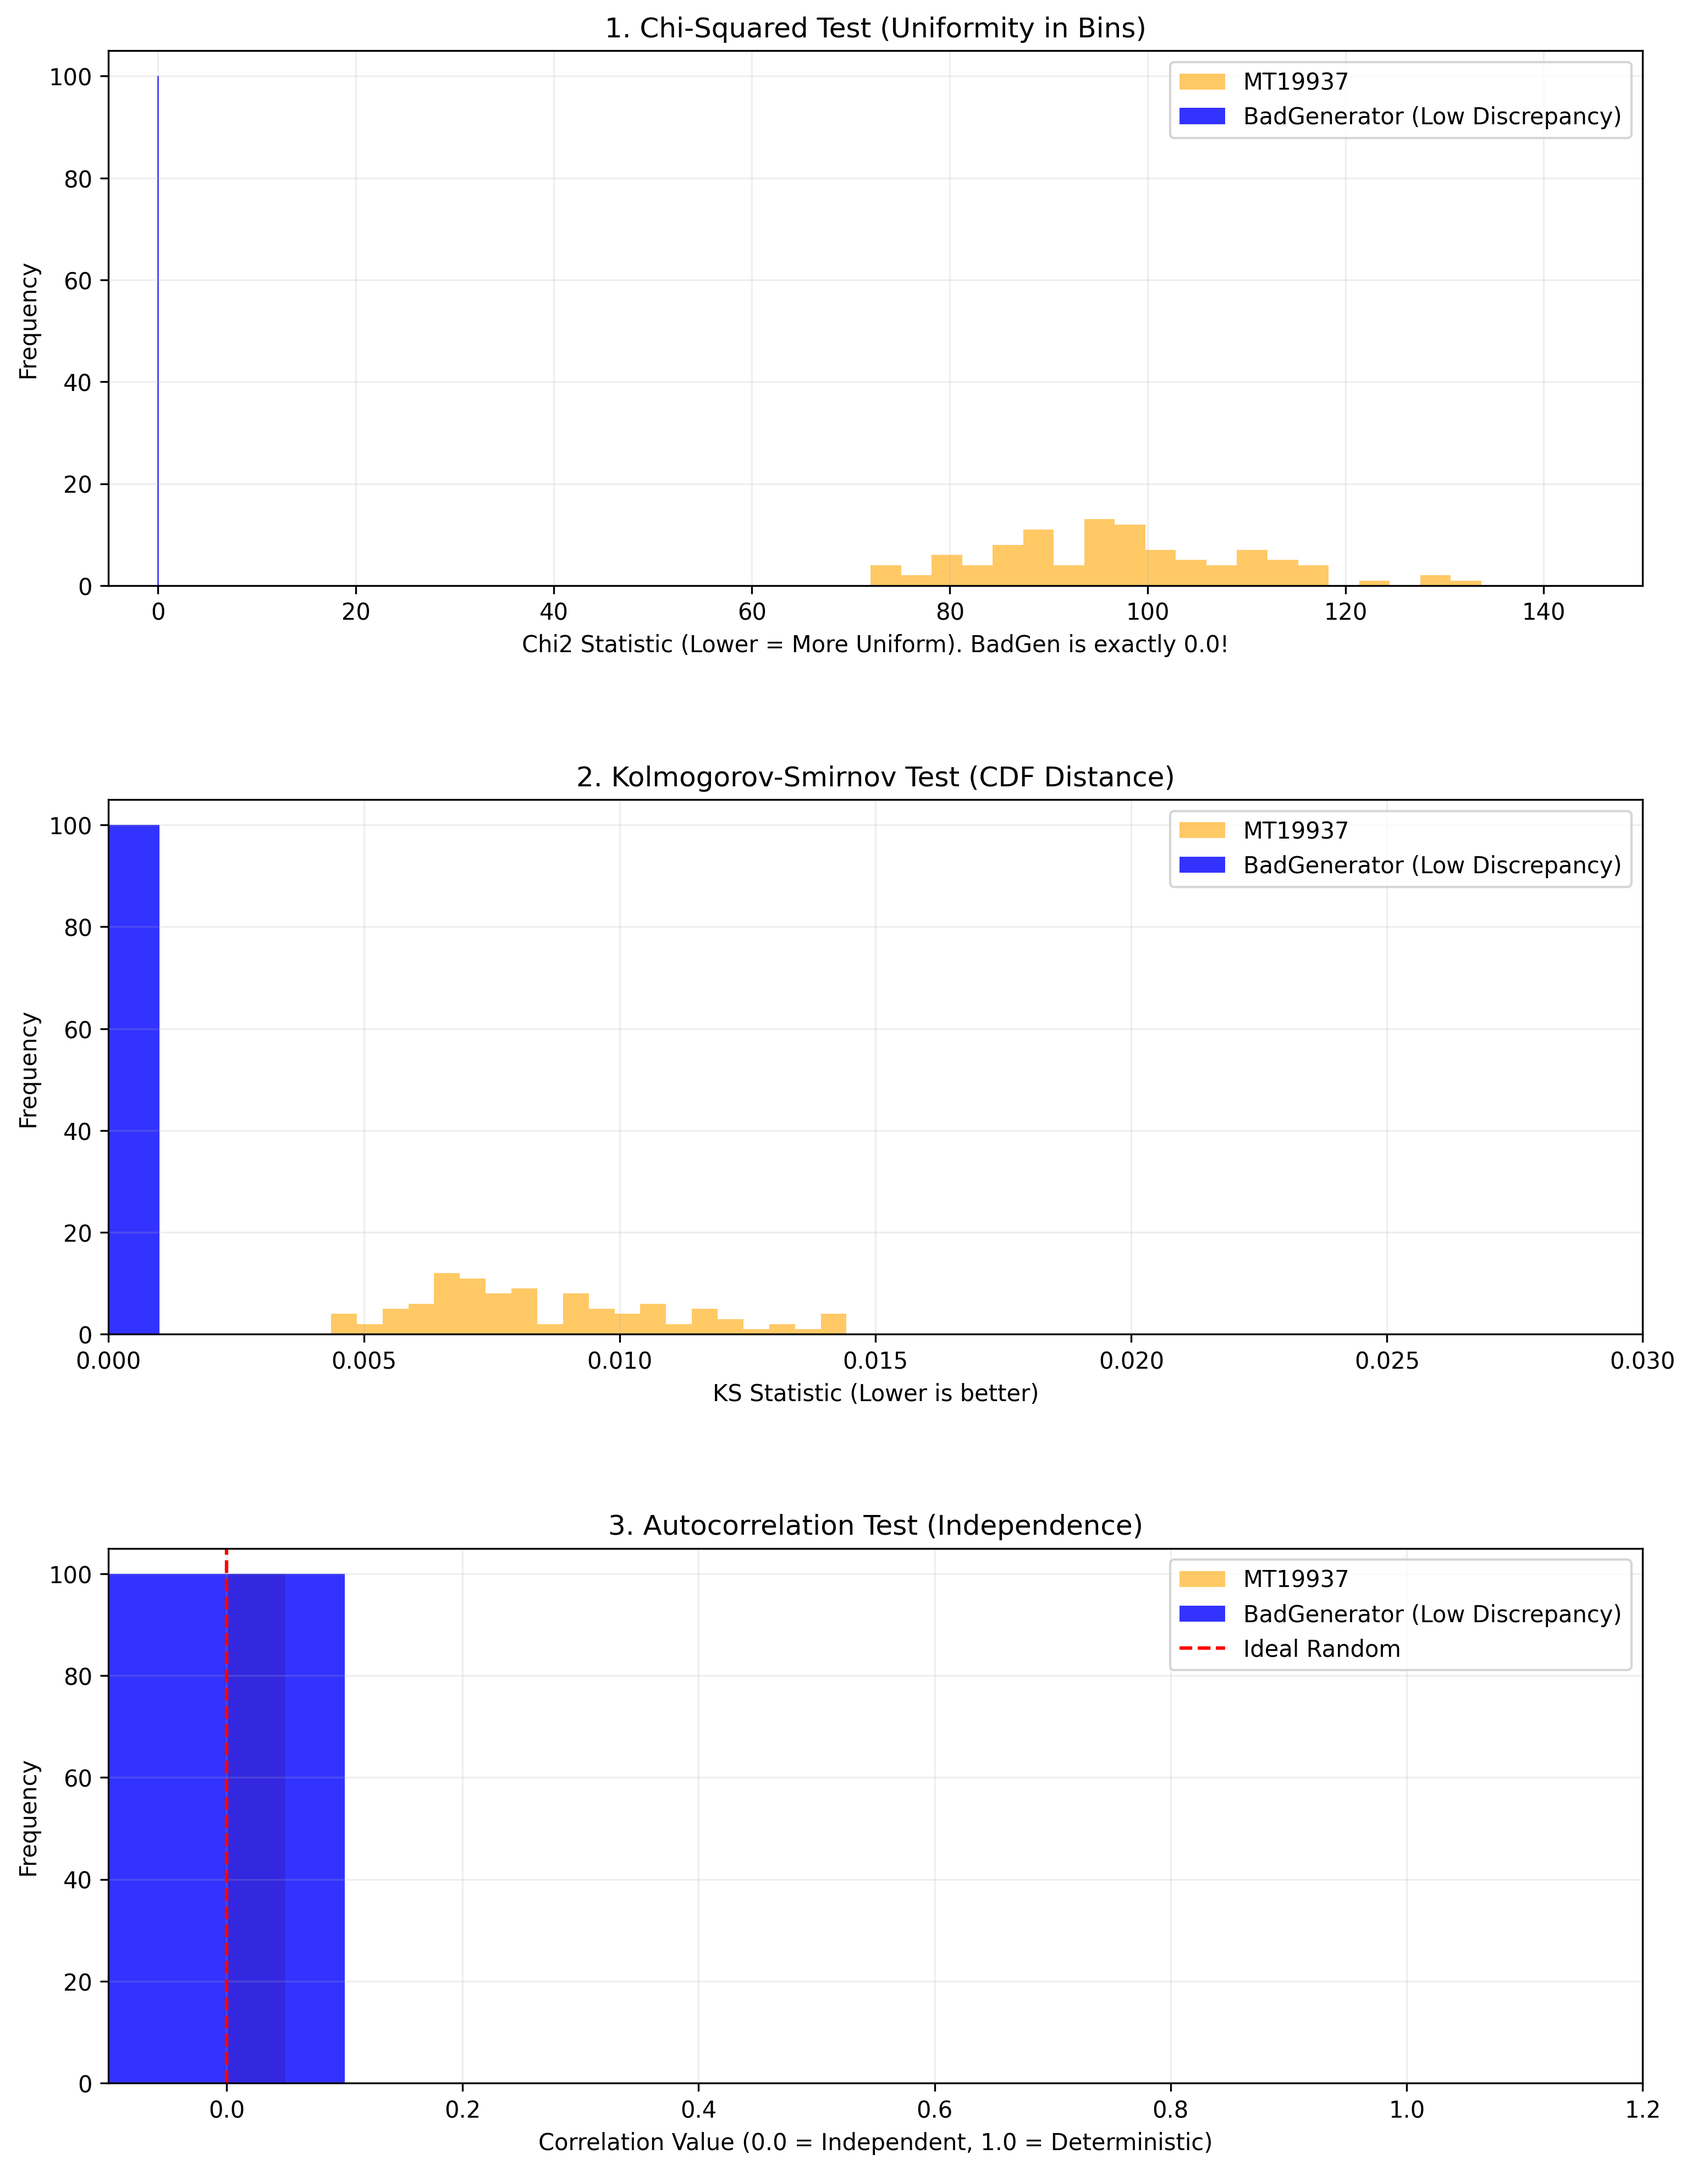
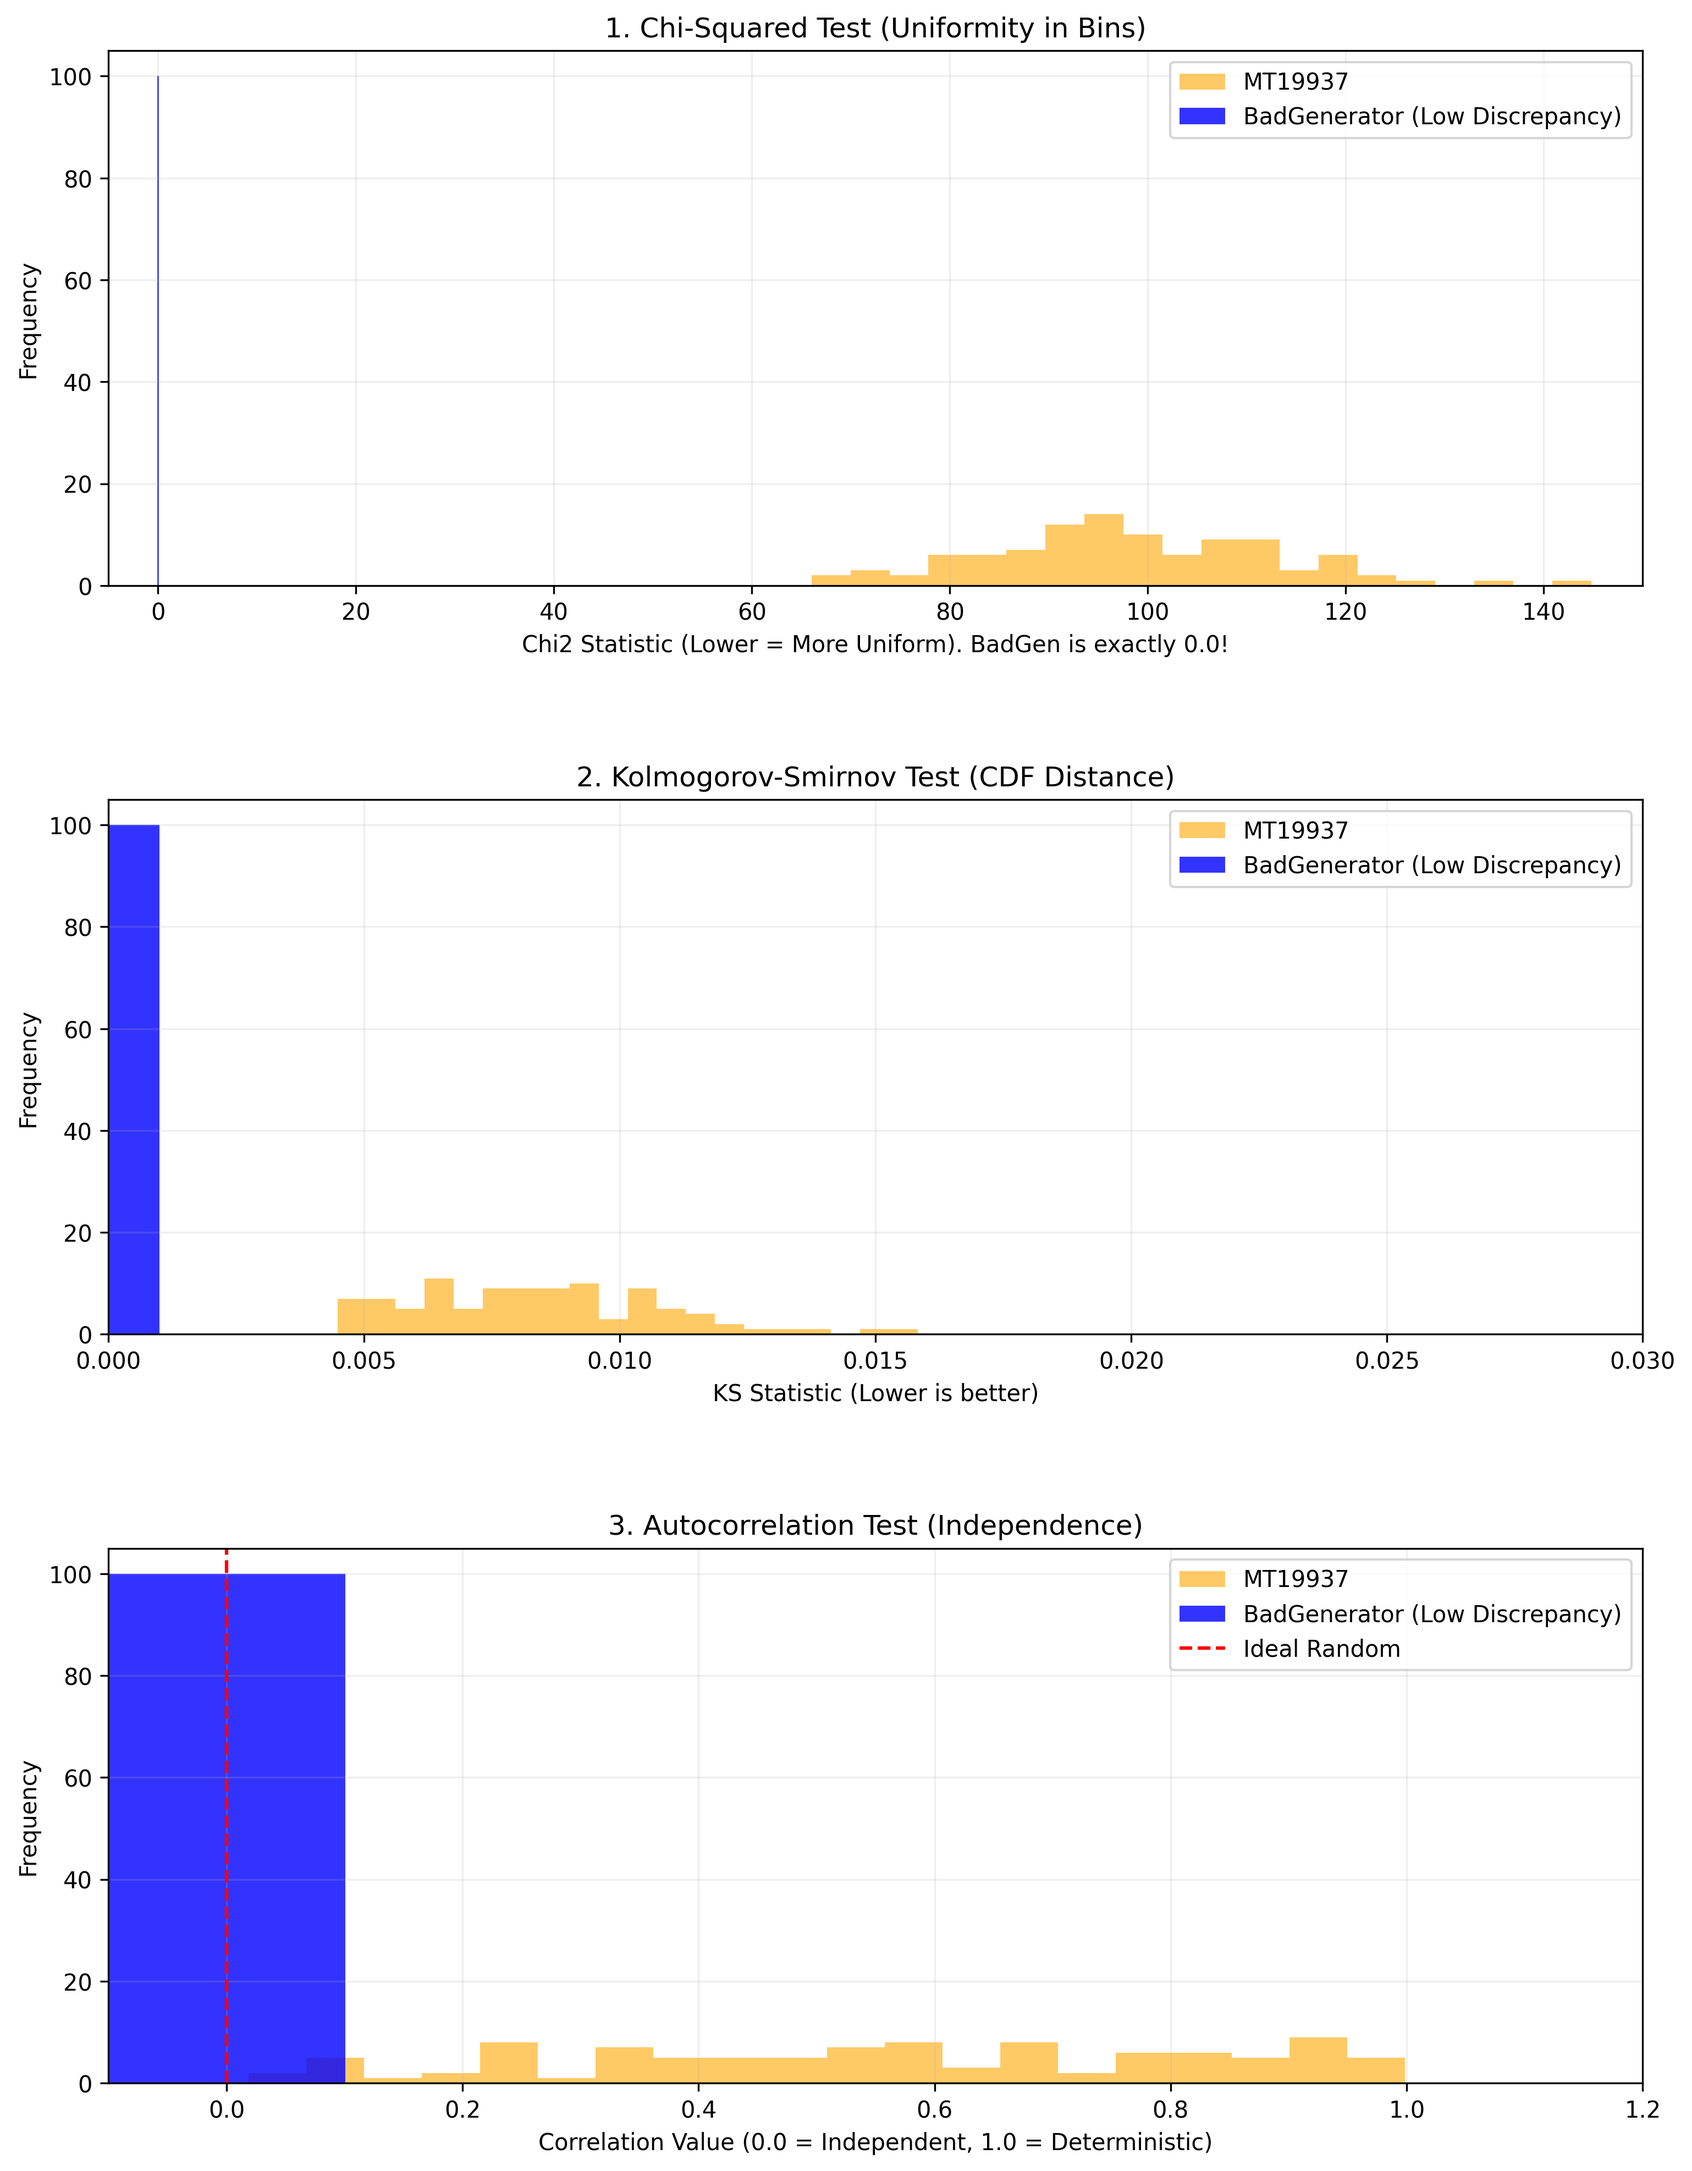
report for task 5 updated

diff --git a/Fifth_task/inc/rng_validation.hpp b/Fifth_task/inc/rng_validation.hpp
@@ -7,6 +7,7 @@
 #include <numbers>
 #include <bit>
 #include <cstdint>
+#include <type_traits>
 
 namespace rng {
 /*  Q*
@@ -14,14 +15,25 @@ namespace rng {
     It will perfectly fill [0, 1] and pass KS-test perfectly too
     Howewer, it will lose autocorrelation test due to its non-random realisation
 */
+
 class BadGenerator {
     double current = 0.0;
     double step;
 public:
     BadGenerator(double s = 0.001) : step(s) {}
-    double next() {
-        current = std::fmod(current + step, 1.0);
-        return current;
+    template <typename Type>
+    Type next() {
+        if constexpr (std::is_floating_point_v<Type>) {
+                current = std::fmod(current + step, 1.0);
+                return current;
+        }
+        else if constexpr (std::is_integral_v<Type>) {
+            current = std::fmod(current + step, 1.0);
+            return current * std::numeric_limits<Type>::max();
+        }
+        else {
+            throw std::runtime_error("unsupported type");
+        }
     }
 };
 

diff --git a/Fifth_task/src/main.cpp b/Fifth_task/src/main.cpp
@@ -18,12 +18,14 @@ int main() {
         std::vector<double> mtSample(SAMPLE_SIZE);
         std::vector<double> badSample(SAMPLE_SIZE);
         std::vector<uint32_t> bitSample(SAMPLE_SIZE);
+        std::vector<uint32_t> badBitSample(SAMPLE_SIZE);
 
 
         for (size_t i = 0; i != SAMPLE_SIZE; ++i) {
             mtSample[i]  = dist(mtGen);
-            badSample[i] = badGen.next();
+            badSample[i] = badGen.next<double>();
             bitSample[i] = mtGen();
+            badBitSample[i] = badGen.next<uint32_t>();
         }
 
         csv << "MT19937," << run << ","
@@ -33,7 +35,9 @@ int main() {
 
         csv << "LowDiscrepancy," << run << ","
             << rng::chiSquaredTest(badSample) << ","
-            << rng::ksTest(badSample) << "\n";
+            << rng::ksTest(badSample) << ","
+            << rng::autocorrelationTestUpd(badBitSample) << "\n";
+
     }
 
     return 0;
